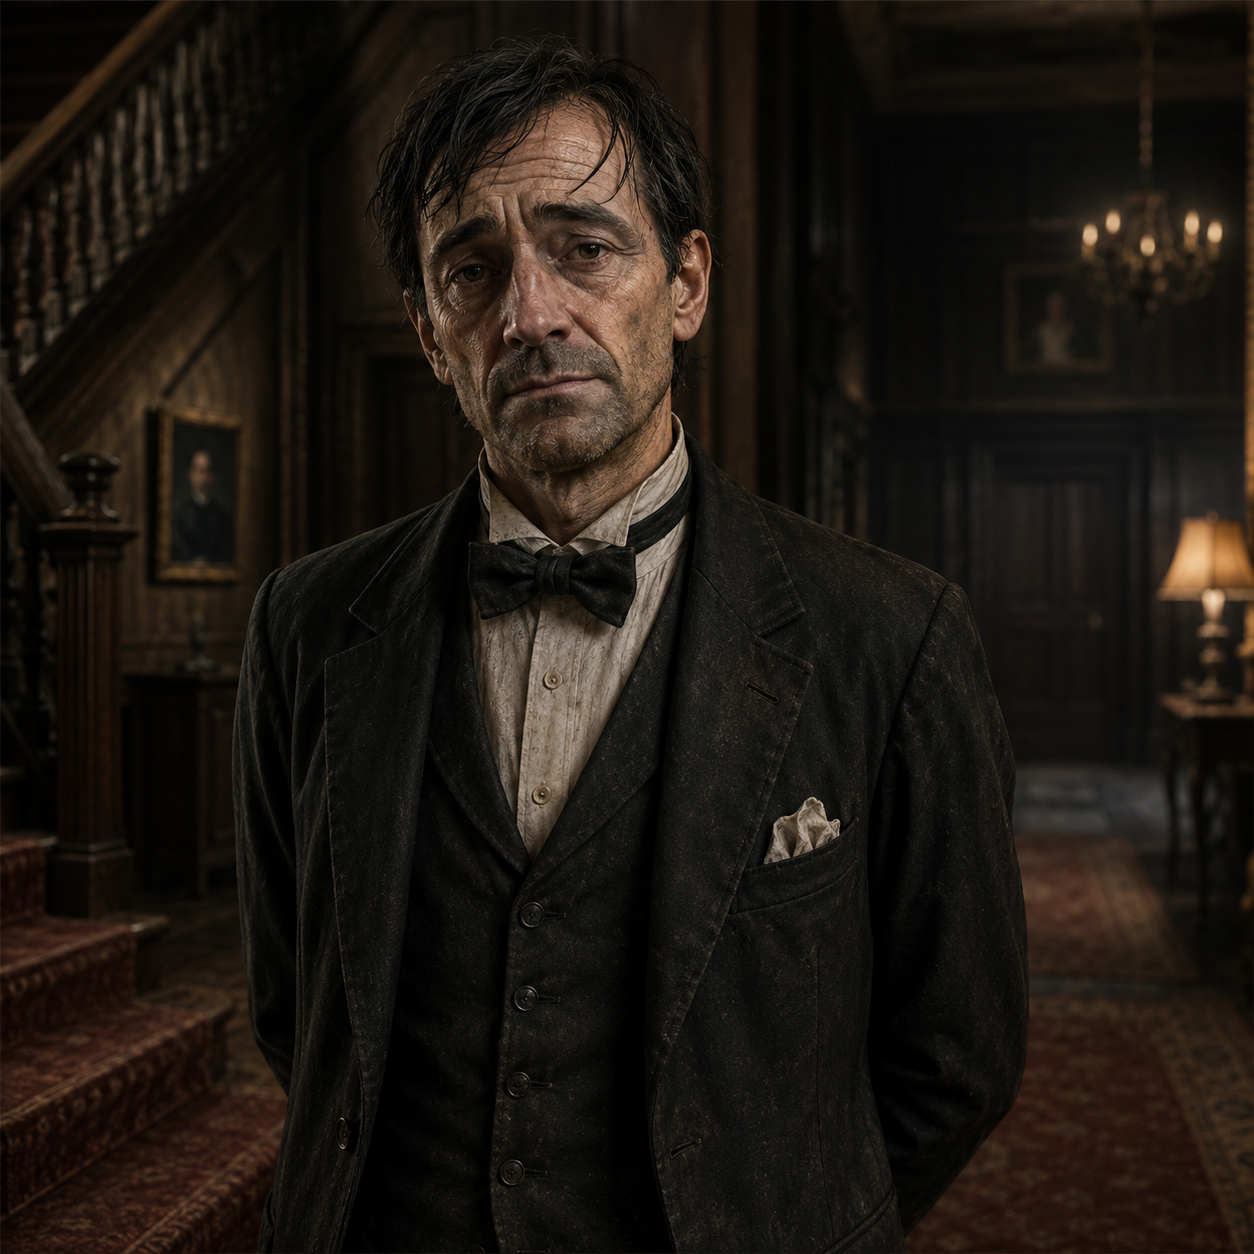
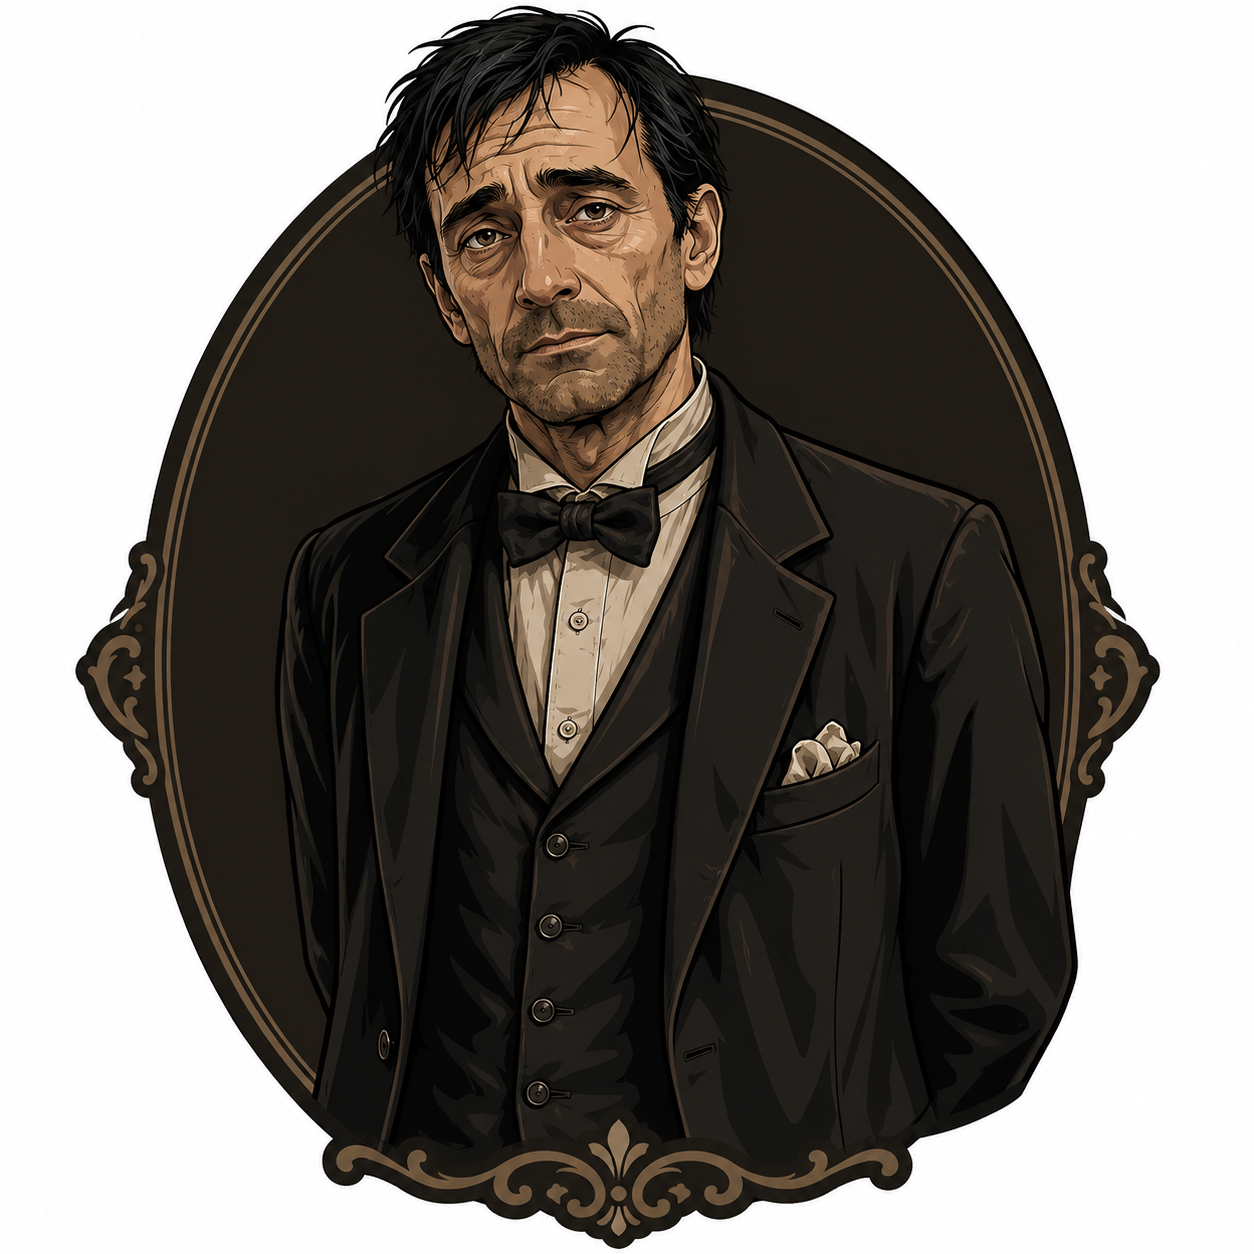
characters added

diff --git a/client/src/App.js b/client/src/App.js
@@ -40,19 +40,19 @@ function App() {
     {
       key: "VANCE",
       role: "The Butler",
-      img: "../public/vance.png",
+      img: "/VANCE.png",
       bio: "In charge of the manor archives. Deep access to security data logs.",
     },
     {
       key: "SCARLET",
       role: "The Heiress",
-      img: "/images/suspect_scarlet.png",
+      img: "/Scarlett.png",
       bio: "Stands to inherit the estate's entire decentralized token pool.",
     },
     {
       key: "MUSTARD",
       role: "The Colonel",
-      img: "/images/suspect_mustard.png",
+      img: "/mustard.png",
       bio: "Tactical defense expert. Knows every surveillance blind spot.",
     },
   ];
@@ -357,7 +357,7 @@ function App() {
             <img
               src={card.img}
               alt={card.key}
-              style={{ width: "100%", height: "100%", objectFit: "cover" }}
+              style={{ width: "120%", height: "100%", objectFit: "fill" }}
               onError={(e) => {
                 e.target.style.display = "none";
               }}

diff --git a/client/src/components/IntroCard.js b/client/src/components/IntroCard.js
@@ -76,7 +76,7 @@ function IntroCard({ isOpen, onClose }) {
         <div className="border-t border-cyber-border pt-4 mt-6">
           <button
             onClick={onClose}
-            className="w-full bg-gradient-to-r from-cyan-600 via-blue-600 to-cyan-600 hover:from-cyan-500 hover:to-blue-500 text-slate-900 font-black py-3 rounded text-xs tracking-widest uppercase transition-all duration-300 shadow-lg shadow-cyan-500/20 transform hover:-translate-y-0.5 text-white"
+            className="w-full bg-gradient-to-r from-cyan-600 via-blue-600 to-cyan-600 hover:from-cyan-500 hover:to-blue-500 text-slate-900 font-black py-3 rounded text-xs tracking-widest uppercase transition-all duration-300 shadow-lg shadow-cyan-500/20 transform hover:-translate-y-0.5"
           >
             INITIALIZE SYSTEM LINK & ACCESS ENCRYPTED INTERROGATION CORES
           </button>